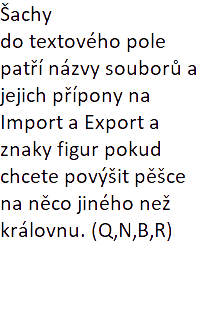
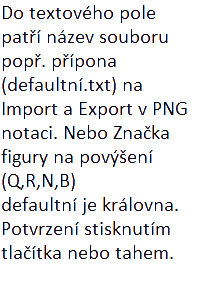
DONE +Export

diff --git a/piece.py b/piece.py
@@ -138,7 +138,8 @@ def king(number,x,y,deska):
 					deska.moves.add((x,y+j))
 				if g and deska.isn_at(x+i,y+j) and deska.boardstate[y+j][x+i]*deska.turn<=0:
 					deska.moves.add((x+i,y+j))
-def move(coords,deska):
+def move(coords,deska,tag=""):
+	deska.pgn.append(Translatemove1(deska,coords,tag))
 	if deska.boardstate[coords[1]][coords[0]]!=0:
 		deska.threefold=0
 		deska.fiftydraw=0
@@ -162,6 +163,7 @@ def move(coords,deska):
 	else:
 		deska.King=deska.Wing
 def pove(coords,deska):
+	tag=""
 	deska.fiftydraw=0
 	if abs(coords[1]-deska.select[1])==2:
 		if deska.enpassant!=None and deska.boardstate[deska.enpassant[1]][deska.enpassant[0]]==-deska.turn*2:
@@ -171,22 +173,29 @@ def pove(coords,deska):
 		deska.boardstate[deska.select[1]][deska.select[0]]=deska.turn*2
 	elif coords[1]==0 or coords[1]==7:
 		deska.promote(coords)
+		try:
+			tag=slov5[deska.text]
+		except:
+			tag="Q"
+		deska.text=""
 	elif abs(coords[0]-deska.select[0])==1 and deska.boardstate[coords[1]][coords[0]]==0:
 		deska.boardstate[coords[1]+deska.turn-(deska.reverse)-deska.turn*deska.reverse][coords[0]]=0
 		deska.threefold=0
-	move(coords,deska)
+	move(coords,deska,tag)
 def rove(coords,deska):
-	deska.boardstate[coords[1]][coords[0]]=deska.turn*5
+	deska.boardstate[deska.select[1]][deska.select[0]]=deska.turn*5
 	move(coords,deska)
 def kove(coords,deska):
 	if abs(deska.boardstate[deska.select[1]][deska.select[0]])==66:
 		g=coords[0]-deska.select[0]
 		deska.boardstate[deska.select[1]][deska.select[0]]=deska.turn*65
 		if abs(g)==2:
-			if deska.boardstate[deska.select[1]][int((1-g//2)*3.5)]*deska.turn==6:
-				deska.boardstate[deska.select[1]][int((1-g//2)*3.5)]=5*deska.turn
 			deska.boardstate[deska.select[1]][deska.select[0]+g//2]=deska.turn*5
 			deska.boardstate[deska.select[1]][int((1+g//2)*3.5)]=0
+		if deska.boardstate[deska.select[1]][int((1-g//2)*3.5)]*deska.turn==6:
+			deska.boardstate[deska.select[1]][int((1-g//2)*3.5)]=5*deska.turn
+		if deska.boardstate[deska.select[1]][int((1+g//2)*3.5)]*deska.turn==6:
+			deska.boardstate[deska.select[1]][int((1+g//2)*3.5)]=5*deska.turn
 	if deska.turn==-1:
 		deska.Bing=coords
 	else:
@@ -203,17 +212,39 @@ def domove(coords,deska):
 	slov3[abs(deska.boardstate[deska.select[1]][deska.select[0]])](coords, deska)
 def Playout(moves, deska):
 	c=0
+	b=0
+	result=None
+	resultstr="Game in progress"
+	if moves[-1][0]=="0":
+		result=-1
+		resultstr="Black won by resignation"
+	elif moves[-1][1]=="/":
+		result=0
+		resultstr="Draw by agreement"
+	elif moves[-1][0]=="1":
+		result=1
+		resultstr="White won by resignation"
 	for move in moves:
 		of=0
 		if move[-1]=="+" or move[-1]=="#":
 			of=-1
+		if len(move)>2:
+			if move[-2+of]=="=":
+				deska.text=move[-1+of]
+				of-=2
 		if c and move[-1]!="}":
+			pass
+		elif b and move[-1]!=")":
 			pass
 		elif move[-1]=="}":
 			c=0
+		elif move[-1]==")":
+			b=0
 		else:
 			if move[0]=="{":
 				c=1
+			elif move[0]=="(":
+				b=1
 			elif ord("A")<=ord(move[0])<=ord("Z"):
 				if move[0]=="O":
 					deska.select=deska.King
@@ -222,8 +253,12 @@ def Playout(moves, deska):
 						factor=-1
 					if len(move)==5:
 						domove((deska.King[0]-2*factor,deska.select[1]),deska)
+						if deska.result==None:
+							deska.updateresult()
 					else:
 						domove((deska.King[0]+2*factor,deska.select[1]),deska)
+						if deska.result==None:
+							deska.updateresult()
 					deska.select=None
 				elif deska.reverse and deska.turn==-1:
 					Playpgn(move, deska,7-ord(move[-2+of])+ord("a"),int(move[-1+of]),of)
@@ -234,6 +269,9 @@ def Playout(moves, deska):
 					Playpgn(move, deska,7-ord(move[-2+of])+ord("a"),int(move[-1+of])-1,of,"P")
 				else:
 					Playpgn(move, deska,ord(move[-2+of])-ord("a"),8-int(move[-1+of]),of,"P")
+	if deska.result==None:
+		deska.result=result
+		deska.resultstring=resultstr
 def Playpgn(move, deska,x,y,of,fig=None):
 	if len(move)>2-of and move[-3+of]=="x":
 		of-=1
@@ -254,20 +292,84 @@ def Playpgn(move, deska,x,y,of,fig=None):
 	if len(figs)==1:
 		deska.select=figs[0]
 		domove((x,y),deska)
+		if deska.result==None:
+			deska.updateresult()
 		return
 	elif len(figs)>1:
-		p=0
+		p=1
 		if ord("a")<=ord(move[-3+of])<=ord("z"):
-			p=1
-		for i in figs:
-			if i[p]==move[-3+of]:
-				deska.select=i
-				domove((x,y),deska)
+			p=0
+			for i in figs:
+				if deska.reverse and deska.turn==-1:
+					if i[p]==7-ord(move[-3+of])+ord("a"):
+						deska.select=i
+						domove((x,y),deska)
+						if deska.result==None:
+							deska.updateresult()
+				else:
+					if i[p]==ord(move[-3+of])-ord("a"):
+						deska.select=i
+						domove((x,y),deska)
+						if deska.result==None:
+							deska.updateresult()
+		elif ord("0")<=ord(move[-3+of])<=ord("9"):
+			for i in figs:
+				if deska.reverse and deska.turn==-1:
+					if i[p]==int(move[-1+of]):
+						deska.select=i
+						domove((x,y),deska)
+						if deska.result==None:
+							deska.updateresult()
+				else:
+					if i[p]==8-int(move[-1+of]):
+						deska.select=i
+						domove((x,y),deska)
+						if deska.result==None:
+							deska.updateresult()
 	else:
 		deska.text="Invalid Game"
-
-
-
+def Translatemove1(deska, coords,tags=""):
+	move=slov4[abs(deska.boardstate[deska.select[1]][deska.select[0]])]
+	other=[]
+	g=deska.select
+	if tags!="":
+		tags="="+tags
+		move="P"+move[1:]
+	deska.moves.clear()
+	for i in range(8):
+		for j in range(8):
+			if deska.boardstate[i][j]*deska.turn>0 and slov4[abs(deska.boardstate[i][j])]==move[0]:
+				deska.select=(j,i)
+				getmove(deska.boardstate[i][j],j,i,deska)
+				if (coords[0],coords[1]) in deska.moves:
+					other.append((j,i))
+				deska.moves.clear()
+				deska.select=g
+	if deska.boardstate[coords[1]][coords[0]]*deska.turn<0:
+		takes="x"
+	else:
+		takes=""
+	for i in other:
+		if i==deska.select:
+			pass
+		elif deska.select[0]==i[0]:
+			if deska.reverse and deska.turn==-1:
+				move=move+chr(ord("h")-deska.select[0])+str(deska.select[1]+1)+takes+chr(ord("h")-coords[0])+str(coords[1]+1)+tags
+				break
+			else:
+				move=move+chr(ord("a")+deska.select[0])+str(8-deska.select[1])+takes+chr(ord("a")+coords[0])+str(8-coords[1])+tags
+				break
+	if (len(other)>1 and len(move)==1) or (takes=="x" and move[0]=="P"):
+		if deska.reverse and deska.turn==-1:
+			move=move+chr(ord("h")-deska.select[0])+takes+chr(ord("h")-coords[0])+str(coords[1]+1)+tags
+		else:
+			move=move+chr(ord("a")+deska.select[0])+takes+chr(ord("a")+coords[0])+str(8-coords[1])+tags
+	elif len(move)==1:
+		if deska.reverse and deska.turn==-1:
+			move=move+takes+chr(ord("h")-coords[0])+str(coords[1]+1)+tags
+		else:
+			move=move+takes+chr(ord("a")+coords[0])+str(8-coords[1])+tags
+	return move
 
 P=pygame.image.load("../chess/Images/P-1.png")
 N=pygame.image.load("../chess/Images/N-1.png")
@@ -285,3 +387,4 @@ slov={1: p, 2: p, 3: n, 4: b, 5: r,6: r, 9: q, 66: k, 65: k, -1: P, -2: P, -3: N
 slov3={1: pove, 2: pove, 3: move, 4: move, 5: move, 6: rove, 9: move, 66: kove, 65: kove}
 slov2={1: Pawn, 2: Pawn, 3: Night, 4: Bishop, 5: Rook, 6: Rook, 9: Queen, 66: King, 65: king}
 slov4={1:"P",2:"P",3: "N", 4: "B", 5: "R",6: "R", 9: "Q",65:"K", 66: "K"}
+slov5={"Q":"Q", "q":"Q", "R":"R", "r":"R", "B":"B", "b":"B", "N":"N", "n":"N", "Queen":"Q", "queen":"Q", "Rook":"R", "rook":"R", "Bishop":"B", "bishop":"B", "Knight":"N", "knight": "N", "Královna":"Q","královna":"Q", "Věž":"R", "věž":"R", "Střelec":"B", "střelec":"B", "Jezdec":"N", "jezdec":"N"}

diff --git a/board.py b/board.py
@@ -28,6 +28,7 @@ class Deska:
 		self.King=self.Wing
 		self.text=""
 		self.resultstring="Game in progress"
+		self.pgn=[]
 	def draw(self):
 		self.screen.blit(self.normal,(0,0))
 		self.screen.blit(self.abcn,(0,480))
@@ -94,6 +95,7 @@ class Deska:
 		self.fiftydraw=0
 		self.result=None
 		self.updatepicture()
+		self.pgn=[]
 	def selmove(self,coords):
 		x=coords[0]//60
 		y=coords[1]//60
@@ -110,7 +112,6 @@ class Deska:
 		slov={"Q":9, "q":9, "R":5, "r":5, "B":4, "b":4, "N":3, "n":3, "Queen":9, "queen":9, "Rook":5, "rook":5, "Bishop":4, "bishop":4, "Knight":3, "knight": 3, "Královna":9,"královna":9, "Věž":5, "věž":5, "Střelec":4, "střelec":4, "Jezdec":3, "jezdec":3}
 		try:
 			fig=slov[self.text]
-			self.text=""
 		except KeyError:
 			fig=9
 		self.boardstate[self.select[1]][self.select[0]]=fig*self.turn
@@ -239,8 +240,12 @@ class Deska:
 				elif self.Dead_position():
 					self.result=0
 					self.resultstring="Draw by insufficient material"
+		if self.isn_at(self.King[0],self.King[1])==0:
+			if self.result!=None and abs(self.result)==1:
+				self.pgn[-1]+="#"
+			else:
+				self.pgn[-1]+="+"
 	def Import(self):
-		"""
 		if len(self.text.split("."))==2:
 			pass
 		elif len(self.text.split("."))==1:
@@ -248,21 +253,53 @@ class Deska:
 		else:
 			self.text="Invalid format"
 			return
-		"""
-#		try:
-		with open("Game.txt","r") as f:
-			try:
-				while 1:
-					g=f.readline()
-					if g[0]=="1":
-						break
-			except EOFError:
-				pass
-			g=g+f.read()
-			g=g.strip().split()
-			self.generatenew()
-			piece.Playout(g,self)
-#		except:
-#			self.text="file not found"
+		try:
+			with open(self.text,"r") as f:
+				try:
+					while 1:
+						g=f.readline()
+						if g[0]=="1":
+							break
+				except EOFError:
+					pass
+				g=g+f.read()
+				g=g.strip().split()
+				self.generatenew()
+				piece.Playout(g,self)
+		except:
+			self.text="file not found"
 	def Export(self):
-		pass
+		if len(self.text.split("."))==2:
+			pass
+		elif len(self.text.split("."))==1:
+			self.text=self.text+".txt"
+		else:
+			self.text="Invalid format"
+			return
+		f=open(self.text,"w")
+		if self.result==None:
+			result="*"
+		elif self.result==0:
+			result="1/2-1/2"
+		elif self.result==1:
+			result="1-0"
+		else:
+			result="0-1"
+		f.write("[Event \"Zapoctovy program test hra\"]\n[Site \"https://github.com/kubaneko/chess_zap\"]\n[Date \"??\"]\n[White \"Player 1\"]\n[Black \"Player 2\"]\n[Result \""+result+"\"]\n\n")
+		i=1
+		for j in range(len(self.pgn)-1):
+			if self.pgn[j][0]=="P":
+				self.pgn[j]=self.pgn[j][1:]
+		for j in range(0,len(self.pgn),2):
+			if j+1<len(self.pgn):
+				b=self.pgn[j+1]+" " 
+			else:
+				b=""
+			f.write(str(i)+". "+self.pgn[j]+"   "+b)
+			i+=1
+			if i%7==0:
+				f.write("\n")
+		if result!="*":
+			f.write(result)
+		f.close()
+

diff --git a/main.py b/main.py
@@ -18,7 +18,6 @@ pygame.display.set_icon(icon)
 deska=board.Deska(screen)
 deska.generatenew()
 select="else"
-deska.Import()
 while game:
 	Clock.tick(FPS)
 	screen.fill(COLOUR)
@@ -81,7 +80,10 @@ while game:
 							elif mys[1]<465:
 								select="text"
 							else:
-								pass
+								if mys[0]>594:
+									deska.Export()
+								else:
+									deska.Import()
 				else:
 					deska.select=None
 					deska.moves.clear()
